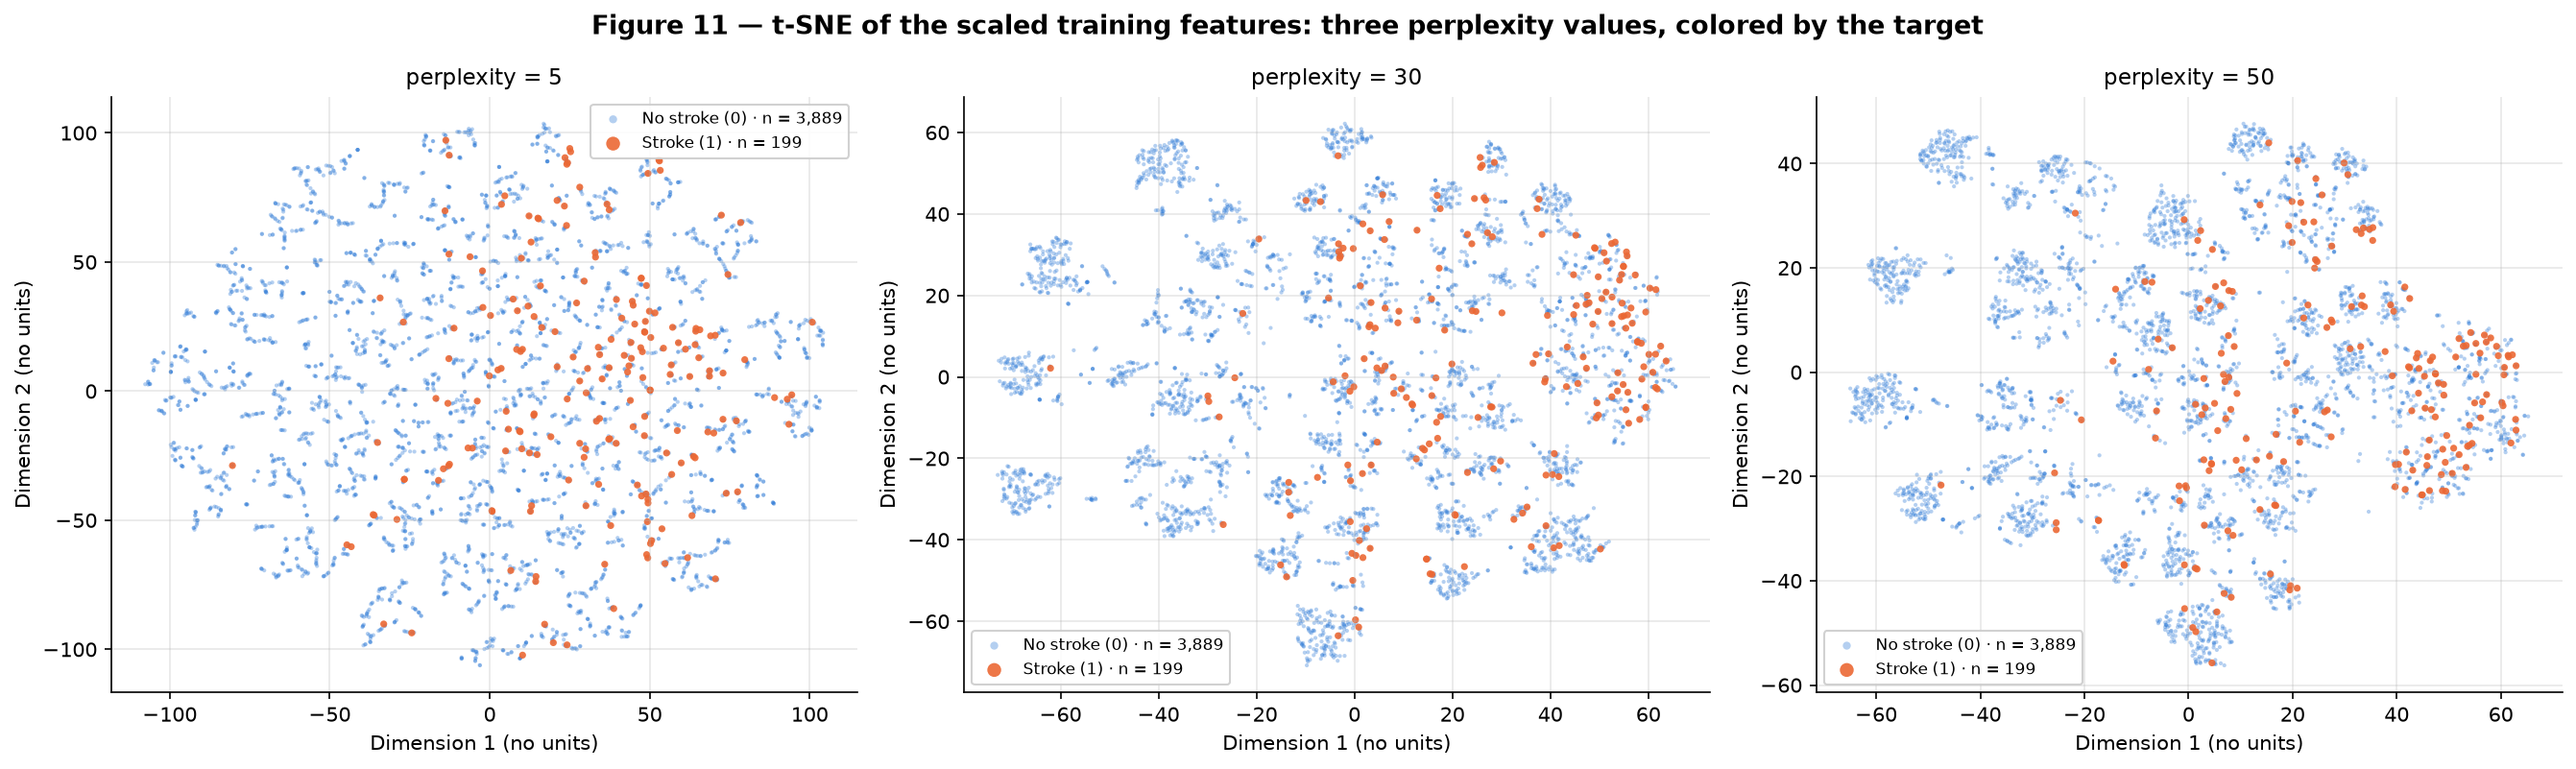
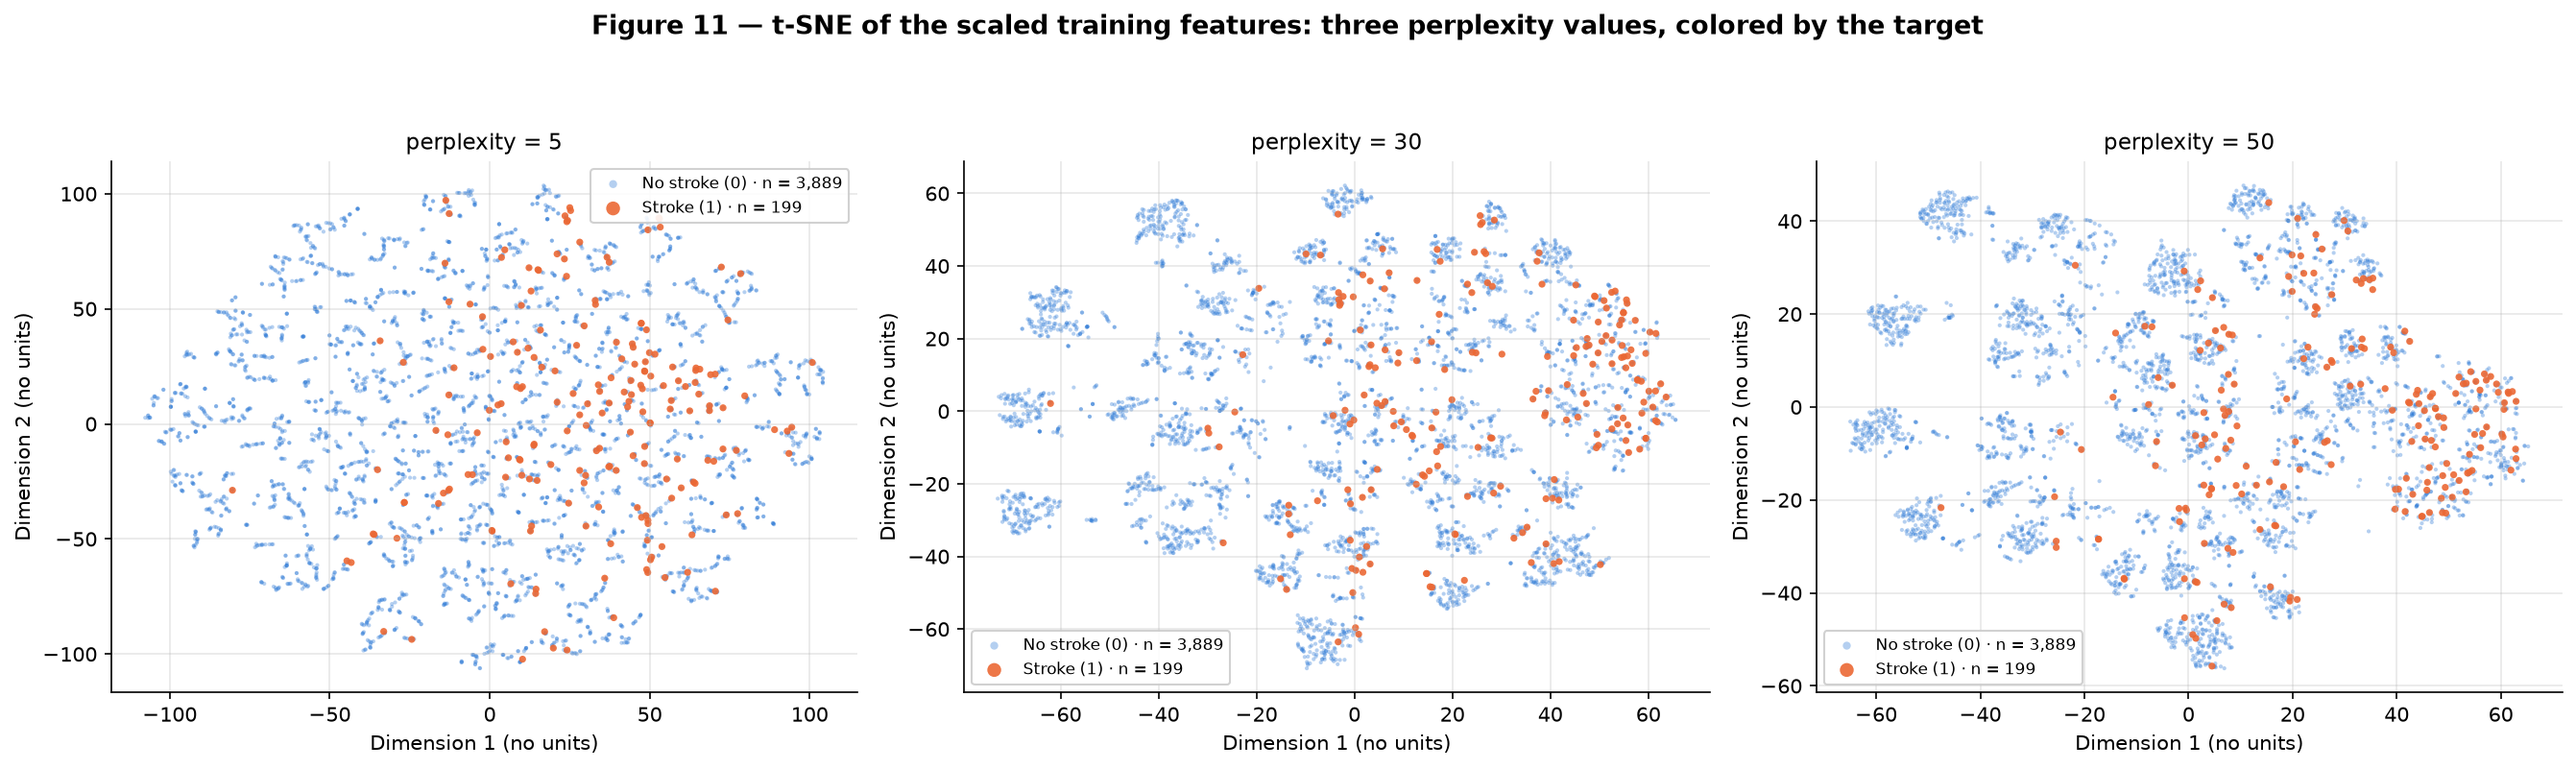
Site: wider content column and compact table cells; EDA Figures 3, 6 and 13 laid out in two columns, figure titles clear of the panels

diff --git a/docs/stylesheets/extra.css b/docs/stylesheets/extra.css
@@ -1,0 +1,15 @@
+/* A wider content column, so wide tables and multi-panel figures stay readable without scrolling. */
+.md-grid {
+  max-width: 90rem;
+}
+
+/* A code identifier inside a table cell is never broken across lines. */
+.md-typeset table:not([class]) code {
+  white-space: nowrap;
+}
+
+/* Tighter cells, so a 12-column table fits the content column. */
+.md-typeset table:not([class]) th,
+.md-typeset table:not([class]) td {
+  padding: 0.6em 0.8em;
+}

diff --git a/docs/projects/eda/code/eda.py b/docs/projects/eda/code/eda.py
@@ -208,7 +208,7 @@ def stage2(train, res):
                                                & (train.smoking_status == "Unknown")).sum())
 
     # Figure 3 — one bar panel per categorical feature + cardinality panel
-    fig, axes = plt.subplots(2, 4, figsize=(17, 8))
+    fig, axes = plt.subplots(4, 2, figsize=(12, 15))
     for ax, c in zip(axes.flat, CAT):
         vc = train[c].value_counts().sort_values()
         shares = vc / len(train) * 100
@@ -227,7 +227,7 @@ def stage2(train, res):
     ax.legend(loc="lower right")
     fig.legend(handles=[Patch(color=CLASS_COLORS[0], label="Category with ≥ 1% of the training rows"),
                         Patch(color=CLASS_COLORS[1], label="Rare category: < 1% of the training rows")],
-               loc="lower center", ncol=2, bbox_to_anchor=(0.5, -0.03), fontsize=10)
+               loc="lower center", ncol=2, bbox_to_anchor=(0.5, -0.015), fontsize=10)
     save_figure(fig, 3, f"Categorical features (train): low cardinality, {len(m['rare_categories'])} rare categories")
 
 
@@ -313,7 +313,7 @@ def stage3(train, res):
             p_kept = "—"
         assoc.append({"feature": c, "χ²": chi2, "dof": dof, "p-value": p,
                       "Cramér's V": np.sqrt(chi2 / (table.values.sum() * (min(table.shape) - 1))),
-                      "min expected count": expected.min(), "p-value, categories with expected < 5 removed": p_kept})
+                      "min expected count": expected.min(), "p-value without the sparse categories": p_kept})
     rates = pd.DataFrame(rows)
     rates_table = rates.assign(**{"95% CI (%)": [f"{lo:.1f}–{hi:.1f}" for lo, hi in zip(rates.ci_lo, rates.ci_hi)]}) \
         .drop(columns=["ci_lo", "ci_hi"])
@@ -326,7 +326,7 @@ def stage3(train, res):
     m["chi2_p"] = assoc.set_index("feature")["p-value"].to_dict()
 
     # Figure 6 — category stroke rates with intervals, plus the Cramér's V ranking
-    fig, axes = plt.subplots(2, 4, figsize=(18, 8.5))
+    fig, axes = plt.subplots(4, 2, figsize=(12, 16))
     for ax, c in zip(axes.flat, CAT):
         sub = rates[rates.feature == c].reset_index(drop=True)
         rate, lo, hi = (sub[k].to_numpy() for k in ("stroke rate (%)", "ci_lo", "ci_hi"))

diff --git a/docs/projects/eda/code/reduction.py b/docs/projects/eda/code/reduction.py
@@ -291,12 +291,12 @@ def main():
         save_figure(fig, number, f"{method} of the scaled training features: three {key} values, colored by the target")
 
     # Figure 13 — what the nonlinear maps group by: color by a categorical feature and by age
-    fig, axes = plt.subplots(2, 3, figsize=(18, 10.5))
+    fig, axes = plt.subplots(3, 2, figsize=(12, 16))   # one row per method: work_type on the left, age on the right
     shown = ["PCA (2 components)", "t-SNE perplexity 30", "UMAP n_neighbors 15"]
     work = X_train.work_type.to_numpy()
     order = ["Private", "Self-employed", "Govt_job", "children", "Never_worked"]
     axis_names = {"PCA (2 components)": ("PC1 score", "PC2 score")}
-    for ax, name in zip(axes[0], shown):
+    for ax, name in zip(axes[:, 0], shown):
         Z = embeddings[name]
         for k, color in zip(order, GROUP_COLORS):
             sel = work == k
@@ -305,7 +305,7 @@ def main():
         xl, yl = axis_names.get(name, ("Dimension 1 (no units)", "Dimension 2 (no units)"))
         ax.set(title=f"{name} — colored by work_type", xlabel=xl, ylabel=yl)
         ax.legend(loc="best", markerscale=3, fontsize=7)
-    for ax, name in zip(axes[1], shown):
+    for ax, name in zip(axes[:, 1], shown):
         Z = embeddings[name]
         sc = ax.scatter(Z[:, 0], Z[:, 1], c=X_train.age, cmap="Blues", s=4, edgecolors="none", rasterized=True)
         pos = y == 1

diff --git a/docs/projects/eda/code/common.py b/docs/projects/eda/code/common.py
@@ -31,7 +31,7 @@ def save_figure(fig, number, title):
     """Give the figure its numbered title and write it to figures/fig{number}.png."""
     FIGURES_DIR.mkdir(exist_ok=True)
     fig.suptitle(f"Figure {number} — {title}", fontsize=13, fontweight="bold")
-    fig.tight_layout()
+    fig.tight_layout(rect=(0, 0, 1, 1 - 0.45 / fig.get_figheight()))   # keep the panels clear of the title
     fig.savefig(FIGURES_DIR / f"fig{number}.png", bbox_inches="tight")
     plt.close(fig)
 

diff --git a/docs/projects/eda/index.md b/docs/projects/eda/index.md
@@ -292,7 +292,7 @@ Figure 5 — Scatter plots of the three numerical pairs, training rows, with the
 
 **Table 9 — Association of each categorical feature with the target (train).** Each row is Pearson's χ² test of independence, without Yates' continuity correction, with Cramér's V as the effect size, since with n = 4,088 a p-value alone says little.
 
-| feature | χ² | dof | p-value | Cramér's V | min expected count | p-value, categories with expected < 5 removed |
+| feature | χ² | dof | p-value | Cramér's V | min expected count | p-value without the sparse categories |
 |---|---|---|---|---|---|---|
 | hypertension | 72.4 | 1 | 1.7e-17 | 0.133 | 19.33 | — |
 | heart_disease | 65.8 | 1 | 5e-16 | 0.127 | 10.76 | — |
@@ -546,10 +546,10 @@ Figure 12 — UMAP of the transformed training matrix at n_neighbors 5, 15 and 5
 
 ![Figure 13 — What the projections group by](figures/fig13.png)
 /// caption
-Figure 13 — PCA, t-SNE and UMAP colored by work type (top) and by age, with the stroke cases circled (bottom).
+Figure 13 — PCA, t-SNE and UMAP (one per row) colored by work type (left) and by age, with the stroke cases circled (right).
 ///
 
-**Conclusion — Figure 13.** Colored by `work_type` (top), the t-SNE and UMAP islands are homogeneous blocks of categories — children form islands of their own — while PCA mixes every category in one cloud. Colored by age (bottom), every map shows the positives on the oldest points, whatever the island. *This implies that* the nonlinear maps are organized by the categorical profiles while the risk follows age across them, so the islands are not stroke subtypes.
+**Conclusion — Figure 13.** Colored by `work_type` (left column), the t-SNE and UMAP islands are homogeneous blocks of categories — children form islands of their own — while PCA mixes every category in one cloud. Colored by age (right column), every map shows the positives on the oldest points, whatever the island. *This implies that* the nonlinear maps are organized by the categorical profiles while the risk follows age across them, so the islands are not stroke subtypes.
 
 **Table 18 — Projection diagnostics (train, 4,088 rows; base rate 4.87%).** Trustworthiness measures how well each map keeps the original neighbors (k = 5 and k = 30). The last two columns count, among each point's 10 nearest neighbors in the map, the share that are positive (computed around the positives only) and the share with exactly the same categorical profile — the 7 categorical features plus the BMI indicator.
 
@@ -565,10 +565,10 @@ Figure 13 — PCA, t-SNE and UMAP colored by work type (top) and by age, with th
 | UMAP n_neighbors 50 | 0.981 | 0.971 | 10.50 | 68.2 |
 | Control: t-SNE perplexity 30 on independently shuffled columns | 0.992 | 0.944 | 3.97 | 59.7 |
 
-- **The islands are categorical profiles.** The training set holds 364 distinct combinations of the seven categorical features plus the BMI indicator. In the original 24-dimensional space, 75.5% of each point's 10 nearest neighbors share its exact profile. t-SNE (76.7–78.2%) and UMAP (68.2–76.9%) keep that level, but PCA keeps only **4.5%**: it superimposes the profiles, because its two components are spent on the three continuous features. In Figure 13 (top), the `children` profiles form islands of their own in t-SNE and UMAP, while PCA only shades them along PC1.
+- **The islands are categorical profiles.** The training set holds 364 distinct combinations of the seven categorical features plus the BMI indicator. In the original 24-dimensional space, 75.5% of each point's 10 nearest neighbors share its exact profile. t-SNE (76.7–78.2%) and UMAP (68.2–76.9%) keep that level, but PCA keeps only **4.5%**: it superimposes the profiles, because its two components are spent on the three continuous features. In Figure 13 (left column), the `children` profiles form islands of their own in t-SNE and UMAP, while PCA only shades them along PC1.
 - **Part of the island structure is encoding geometry — the null control shows how much.** The course's reduction handout recommends rerunning the method on independently shuffled columns. With every raw column permuted separately (no association left between features or with the target), t-SNE at perplexity 30 still keeps 59.7% profile agreement over 440 profiles (Table 18, last row). Full one-hot vectors of different profiles always sit √2 apart per differing feature, so islands form even in pure noise. The real data reach 77.7% with 364 profiles: the excess comes from real associations between the categorical features, such as children with unknown smoking status and no marriage.
 - **The local structure is far better preserved.** At k = 5, trustworthiness is 0.996–0.997 for t-SNE and 0.981–0.994 for UMAP, against 0.817 for PCA. Comparing the two neighborhood sizes ("read the columns, not the rows"): t-SNE with perplexity 5 drops from 0.996 at k = 5 to 0.954 at k = 30, because it keeps only the closest neighbors, while perplexity 50 drops less, to 0.978.
-- **The positives are not a cluster in any space.** Around each positive, 8.89% of its 10 nearest neighbors are positive in the original space: 1.8 times the base rate, but far from a pure group. The 2D maps stay in the same range (8.84–10.65%), and none forms a positive cluster. In the shuffled control the share falls to 3.97%, below the 4.87% base rate, so the enrichment in the real maps is signal (age), not an artifact of the method. Figure 13 (bottom) shows why the enrichment exists at all: in the islands that contain positives, they sit at the old-age end.
+- **The positives are not a cluster in any space.** Around each positive, 8.89% of its 10 nearest neighbors are positive in the original space: 1.8 times the base rate, but far from a pure group. The 2D maps stay in the same range (8.84–10.65%), and none forms a positive cluster. In the shuffled control the share falls to 3.97%, below the 4.87% base rate, so the enrichment in the real maps is signal (age), not an artifact of the method. Figure 13 (right column) shows why the enrichment exists at all: in the islands that contain positives, they sit at the old-age end.
 
 **Comparison.** PCA gives a global, linear and interpretable view: two axes (life stage, glucose), measurable variance, and loadings that can be read. t-SNE and UMAP reveal what PCA flattens: the data are a mosaic of categorical profiles, and age orders the risk inside each one. Within the course's rules — no reading of island sizes or of distances between islands, and conclusions only from patterns stable across all three parameter values — the three methods agree: **no 2D view separates the classes**. *This implies that* the classifier must use the full 24-column matrix and combine age with the clinical flags and glucose. t-SNE coordinates cannot be features in any case: t-SNE cannot transform new rows, so it cannot be refitted inside cross-validation.
 

diff --git a/docs/projects/eda/results/eda_tables.md b/docs/projects/eda/results/eda_tables.md
@@ -111,7 +111,7 @@
 
 ### Table 9 — Association of each categorical feature with the target (train, χ² test of independence)
 
-| feature | χ² | dof | p-value | Cramér's V | min expected count | p-value, categories with expected < 5 removed |
+| feature | χ² | dof | p-value | Cramér's V | min expected count | p-value without the sparse categories |
 |---|---|---|---|---|---|---|
 | hypertension | 72.4 | 1 | 1.7e-17 | 0.133 | 19.33 | — |
 | heart_disease | 65.8 | 1 | 5e-16 | 0.127 | 10.76 | — |
